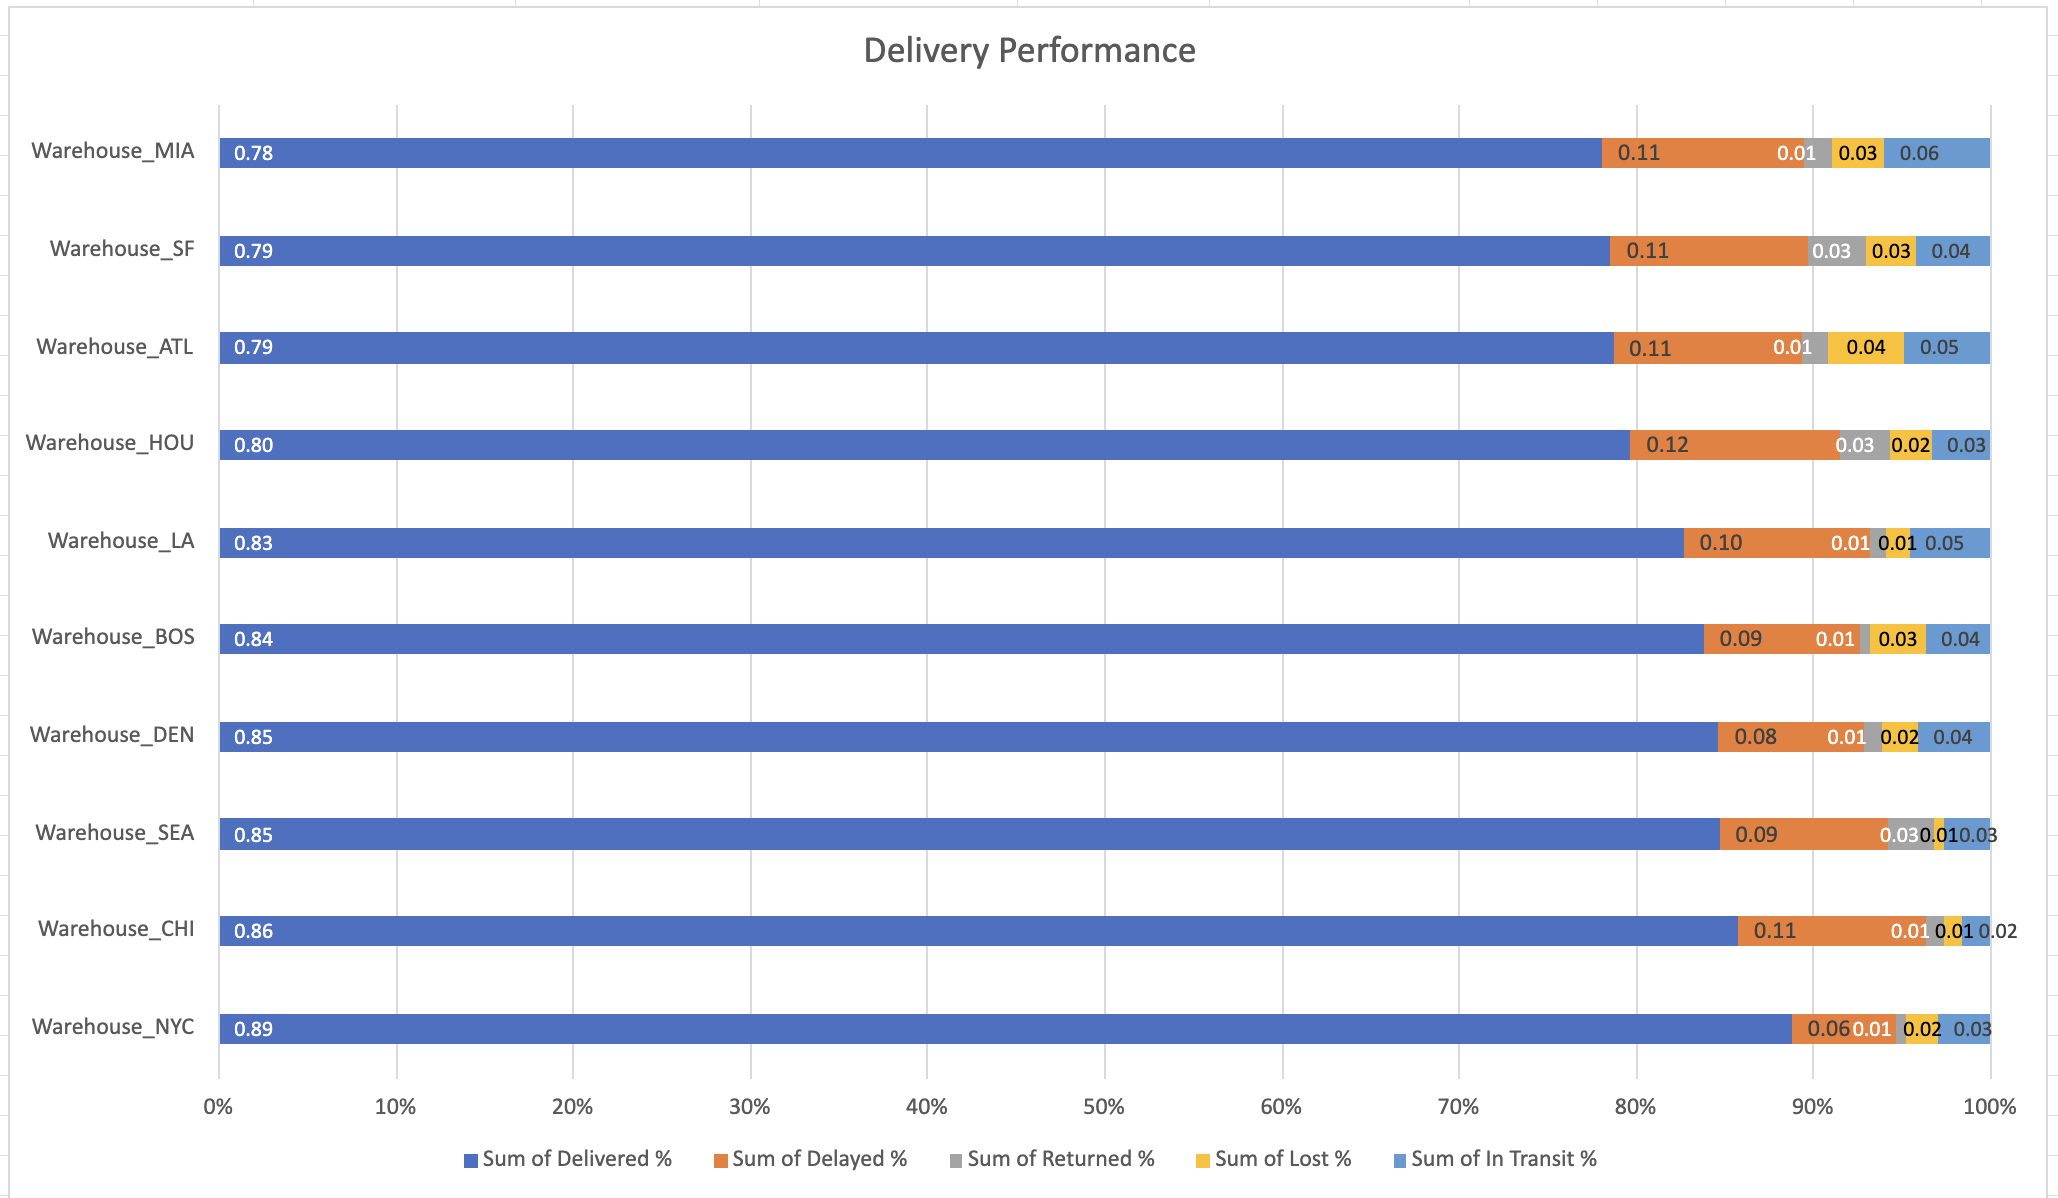
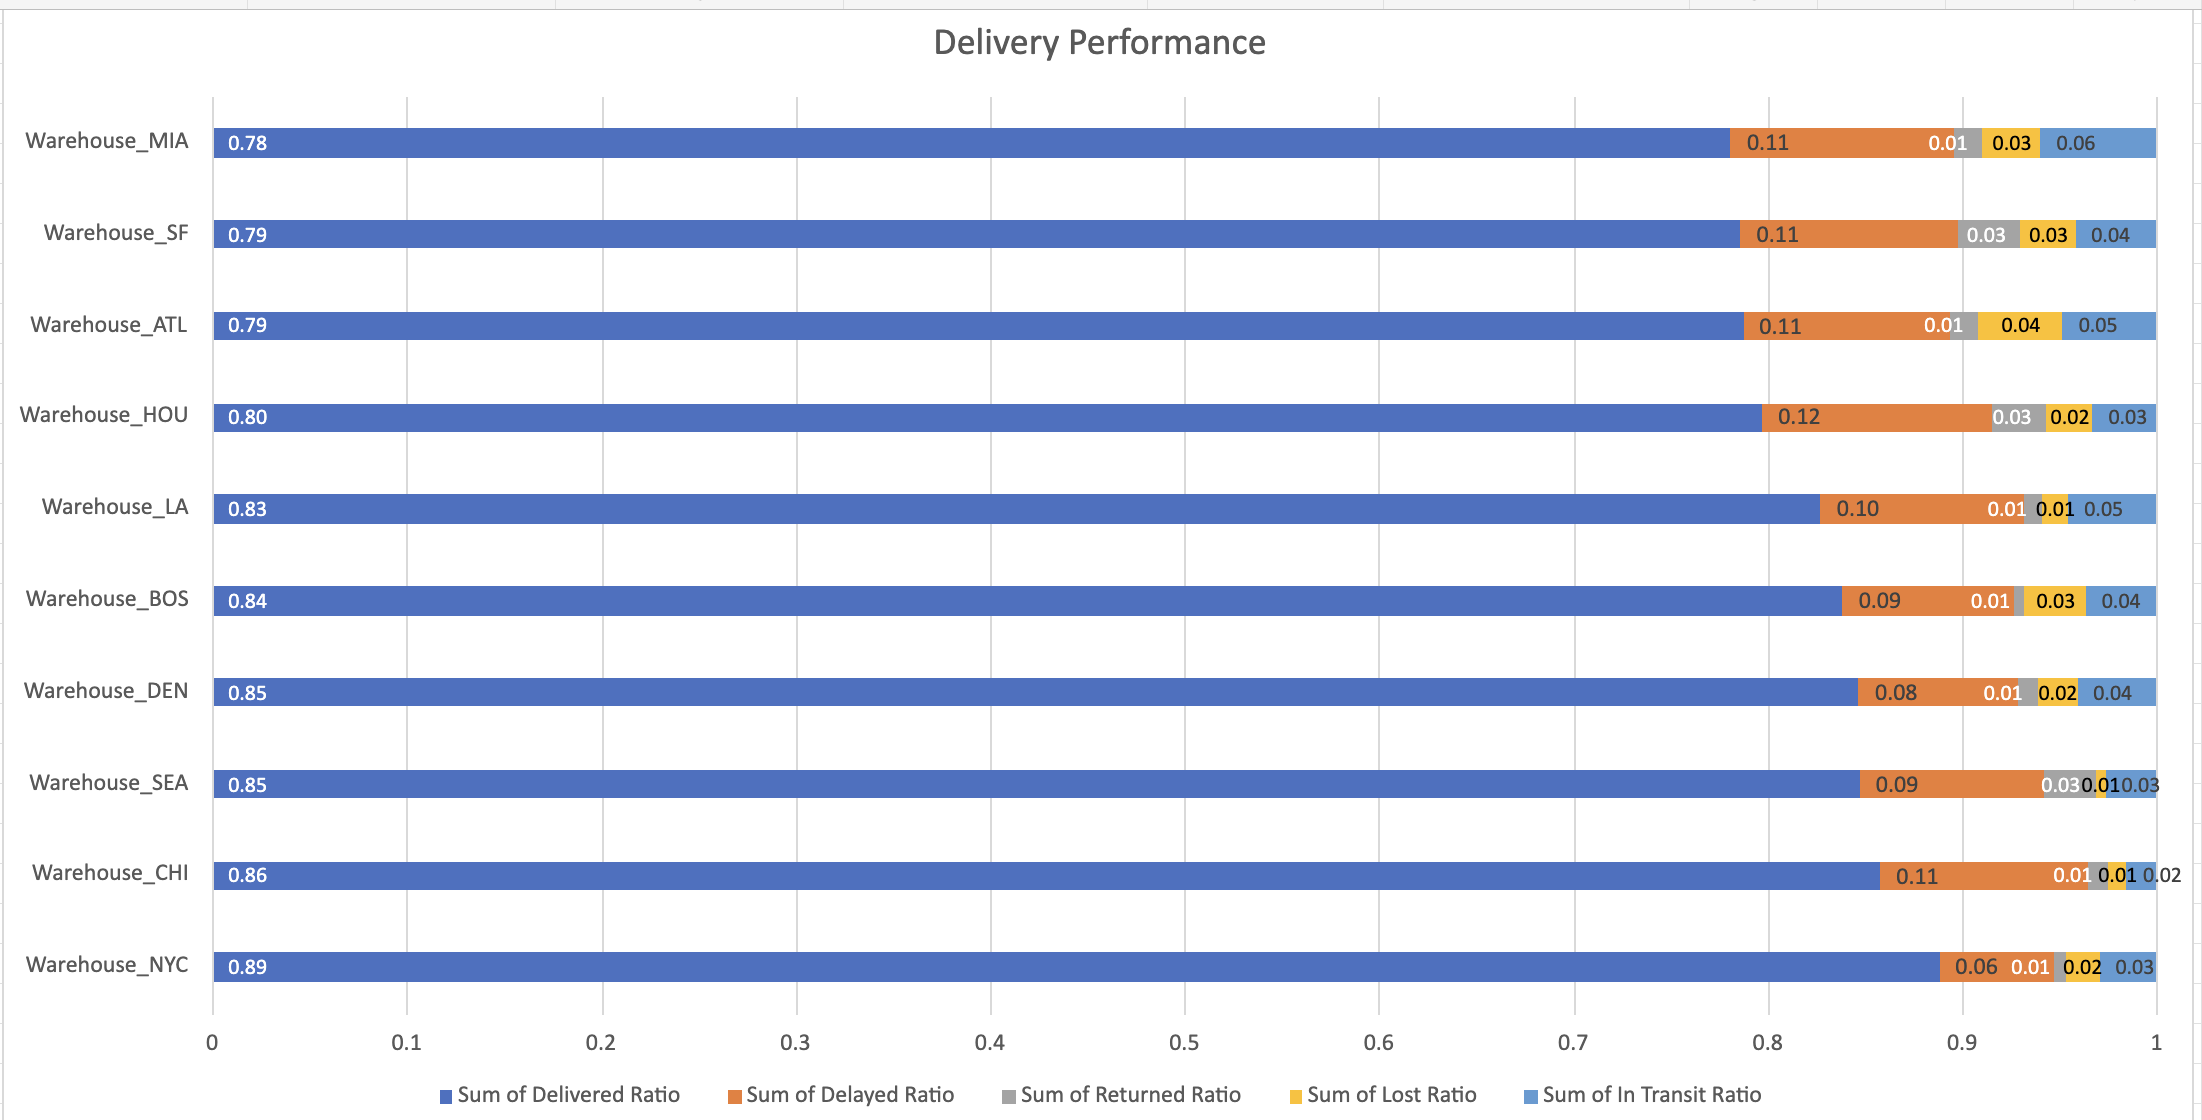
fix

diff --git a/logistics/README.md b/logistics/README.md
@@ -4,8 +4,8 @@ https://www.kaggle.com/datasets/shahriarkabir/us-logistics-performance-dataset
 
 # Tools 
 
-Excel Cloud
-PowerPoint Cloud
+- Excel Cloud
+- PowerPoint Cloud
 
 ## Data Cleaning
 
